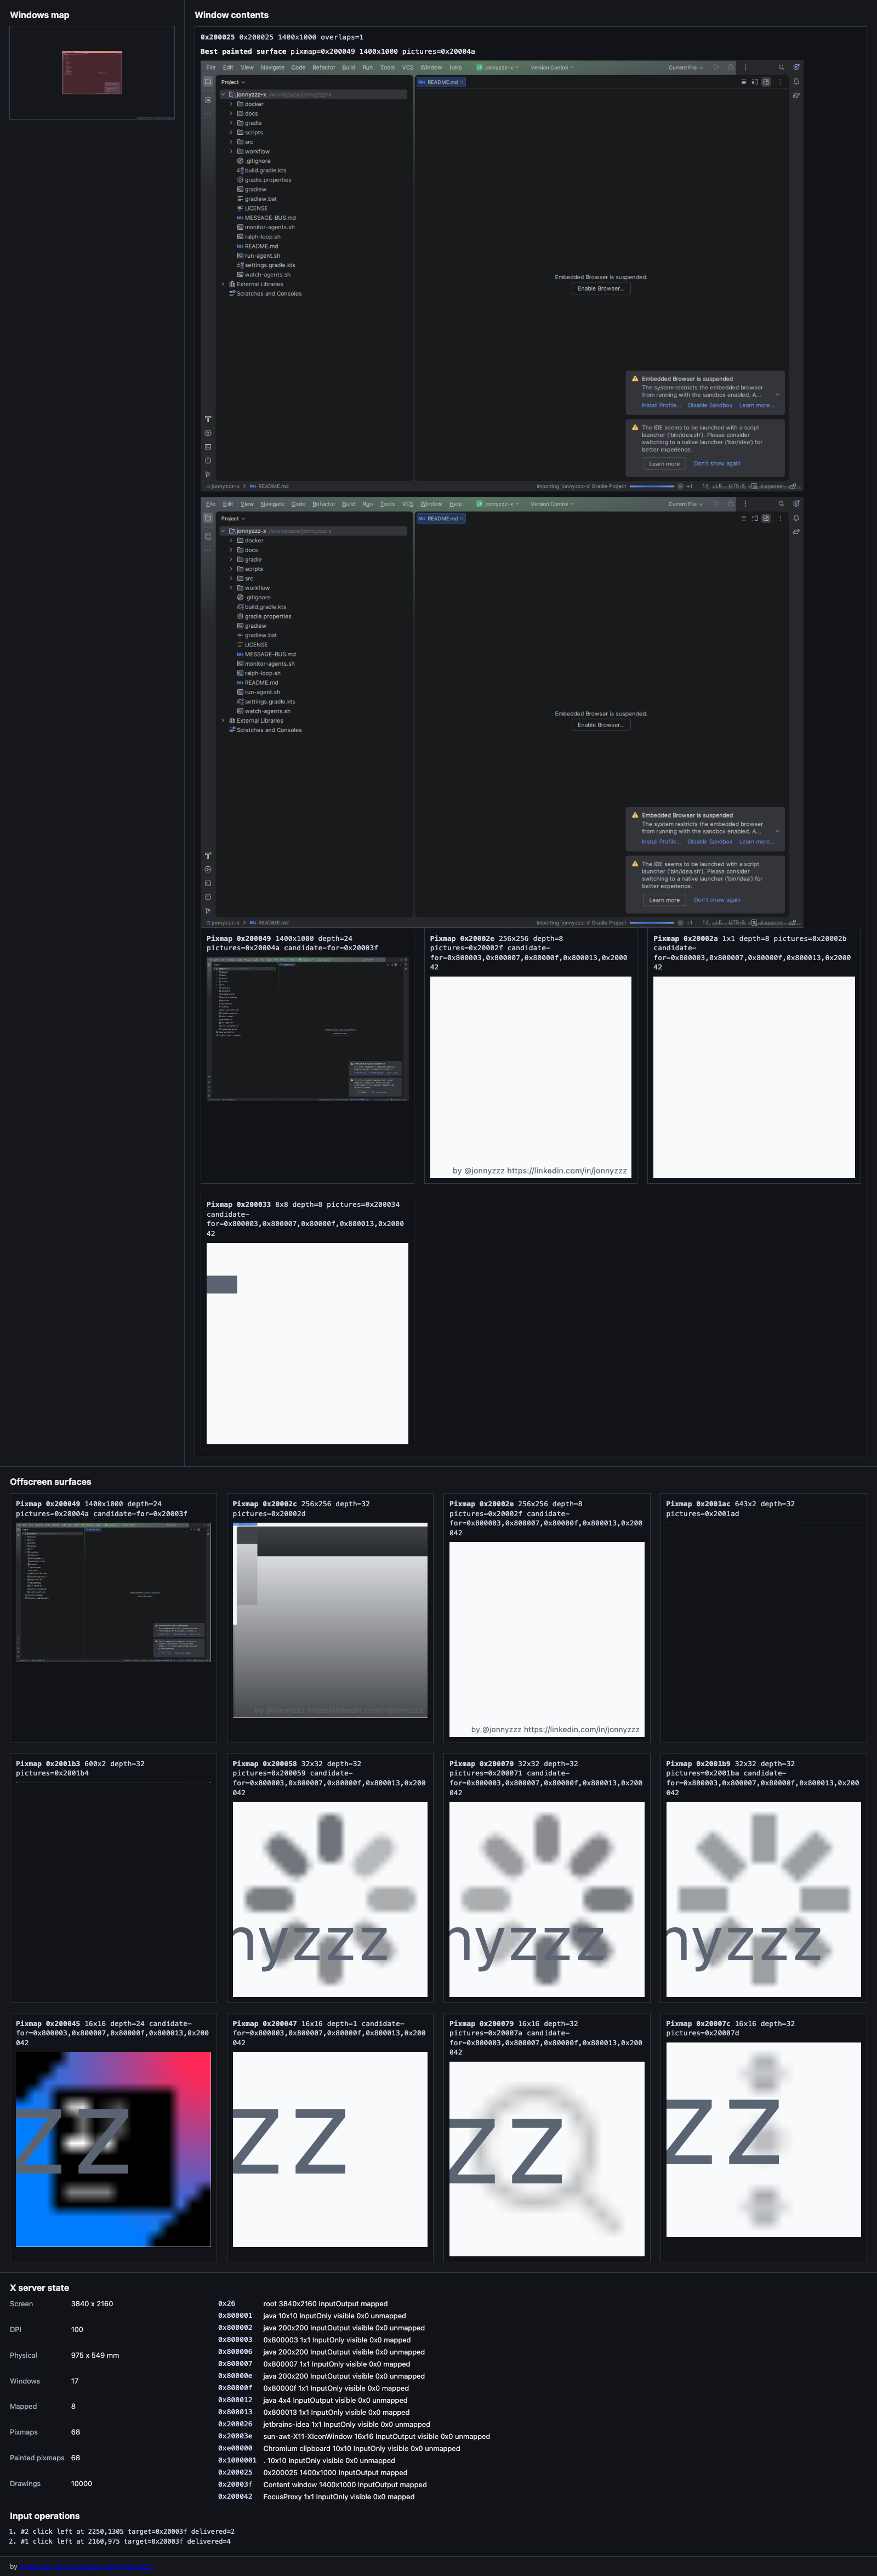
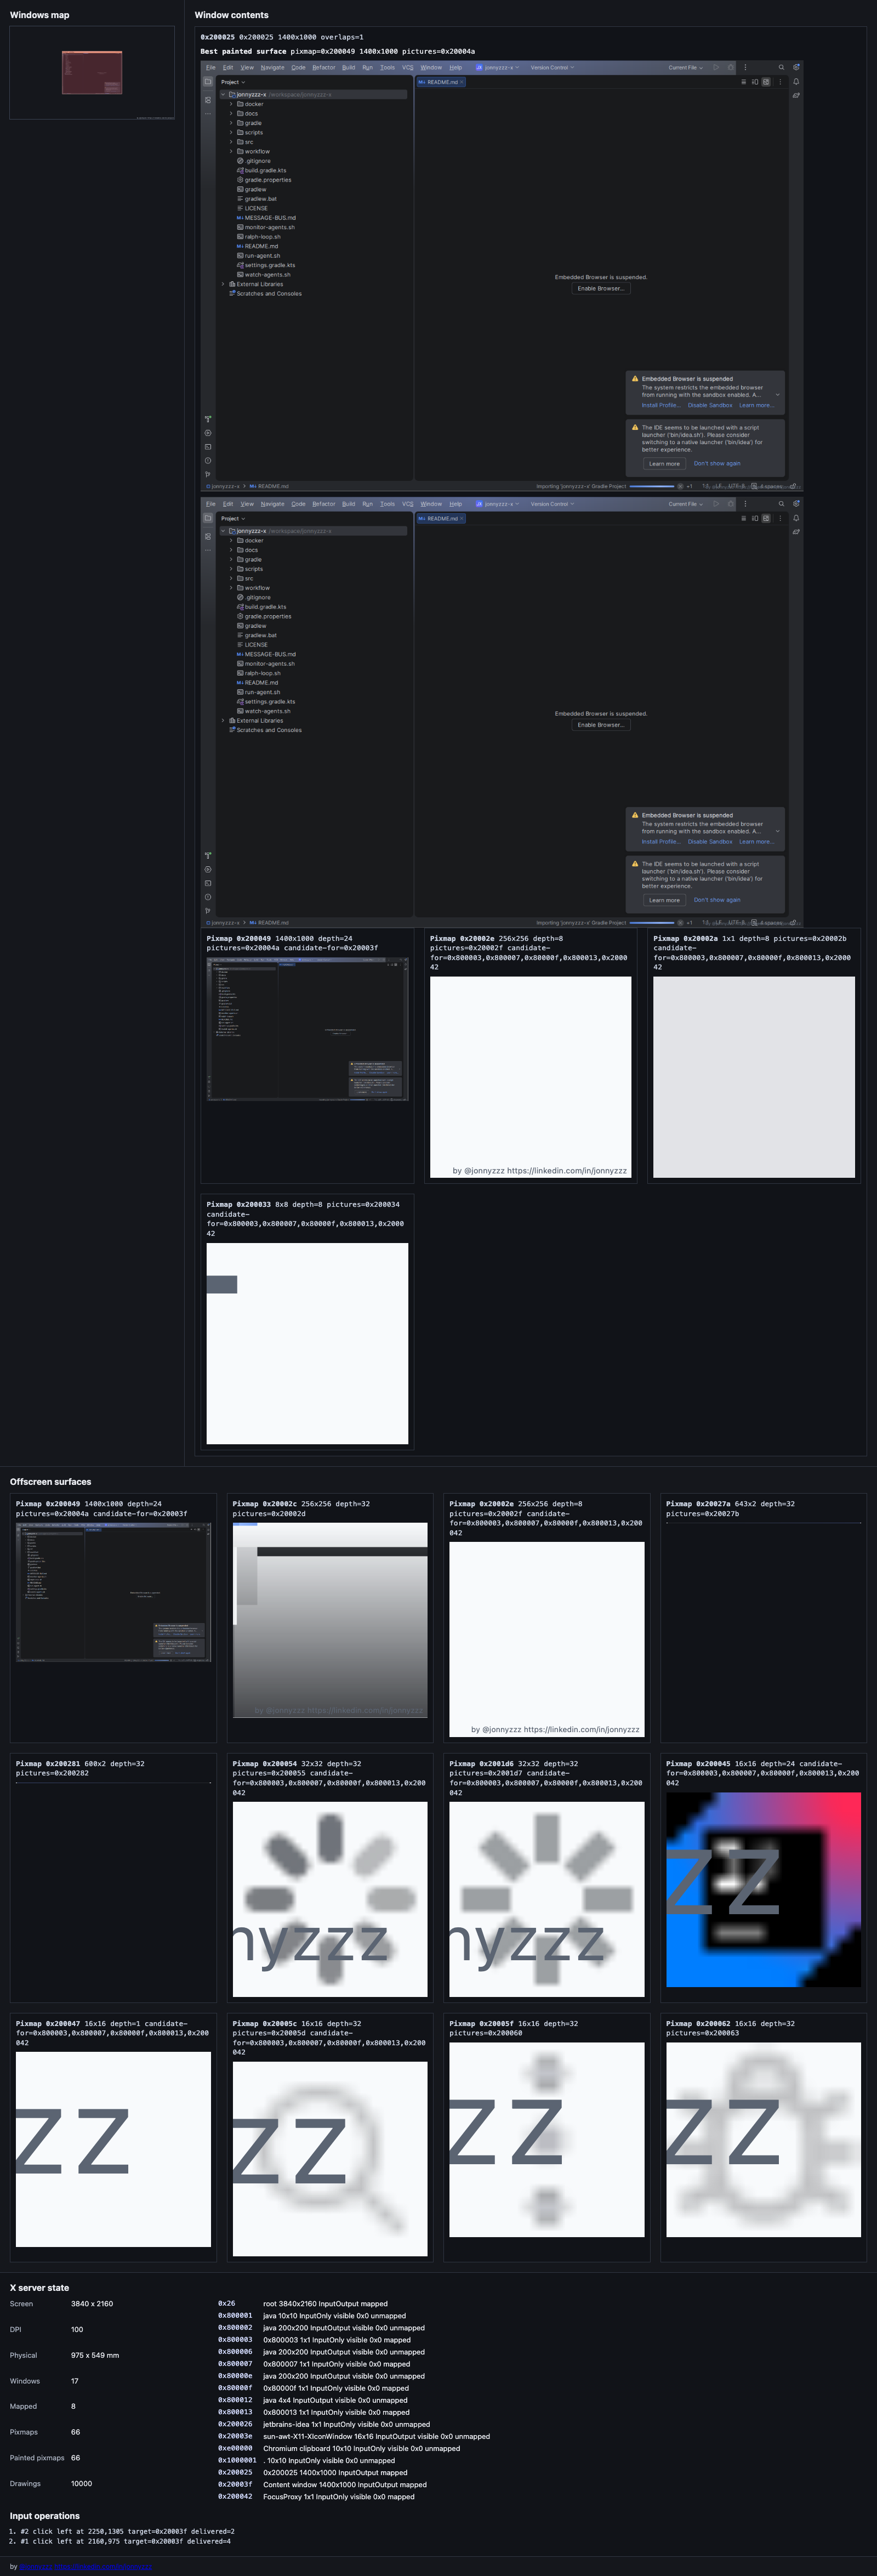
Pin IntelliJ remote X11 rendering mode
Set -Dremote.x11.workaround=false in the IntelliJ launcher so Xvfb and the Kotlin server do not diverge through JBR slow-X11 auto detection.

Refresh the README IntelliJ renderer screenshot after the launcher change.

Verification: sh -n docker/x11-client/run-intellij.sh; git diff --check; dockerBuildX11Client; opt-in IntelliJ smoke; opt-in IntelliJ parity; full default scripts/run-gradle-bounded.sh test --console=plain; bounded screenshot refresh; 3x source-only review quorum.

diff --git a/src/test/kotlin/org/jonnyzzz/xserver/IntellijCommunitySmokeTest.kt b/src/test/kotlin/org/jonnyzzz/xserver/IntellijCommunitySmokeTest.kt
@@ -368,6 +368,7 @@ class IntellijCommunitySmokeTest {
                         check grep -q 'experimental.ui.on.first.startup' /tmp/idea-config/options/other.xml
                         check sh -lc 'find /root/.java/.userPrefs/jetbrains -name prefs.xml -exec grep -l "euacommunity_accepted_version" {} + | grep -q .'
                         check grep -q -- "-Didea.trust.all.projects=true" /tmp/idea-extra.vmoptions
+                        check grep -q -- "-Dremote.x11.workaround=false" /tmp/idea-extra.vmoptions
                         check test -d /tmp/idea-config/plugins
                         check grep -q 'idea.plugins.path=/tmp/idea-config/plugins' /tmp/idea.properties
                         check grep -q "componentStore=/workspace/jonnyzzz-x" /tmp/idea-log/idea.log

diff --git a/MESSAGE-BUS.md b/MESSAGE-BUS.md
@@ -843,3 +843,5 @@
 - FACT 2026-07-04 10:46 CEST (Root): Continued the diagnostics-only IntelliJ visual-region harness slice. `IntellijCommunitySmokeTest.intellijVisualRegionMetrics(...)` now reports `robotMismatchBounds`, `svgMismatchBounds`, `robotInsideFrameMismatchBounds`, and `svgInsideFrameMismatchBounds`, matching the VSCode visual-region artifact shape so current IntelliJ drift can be localized without rerunning heavyweight parity immediately. Focused verification passed with `GRADLE_TIMEOUT_SECONDS=900 GRADLE_NO_OUTPUT_DIAGNOSTICS_SECONDS=180 GRADLE_NO_OUTPUT_TIMEOUT_SECONDS=600 scripts/run-gradle-bounded.sh test --tests 'org.jonnyzzz.xserver.IntellijCommunitySmokeTest.intellij visual region metrics identify frame and margins' --console=plain`. README and `workflow/test-matrix.md` document the new full-screen and inside-frame mismatch bounds. No X server protocol behavior changed; parked extensions remain parked.
 - REVIEW 2026-07-04 10:50 CEST (Review quorum): PASS/NO BLOCKERS for the wrapper-first/latest diagnostics and IntelliJ mismatch-bounds slice from bounded source-only review agents Codex `run_20260704-084730-33124`, Gemini `run_20260704-084730-33128`, and Claude `run_20260704-084730-33134`. Reviews used no Gradle, Docker, Maven, IDE builds, browser automation, MCP Steroid, edits, or nested agents. Codex and Gemini confirmed the symlink pattern is non-destructive and the fixture math is correct; Claude noted two non-blocking points: concurrent `latest` updates are last-writer-wins by design, and `run-agent.sh` did not yet record `LATEST=` in `run-info.txt` like the other wrappers. Root addressed the consistency note by adding `LATEST=$RUNS_DIR/latest` to `run-agent.sh` run-info. No review found protocol behavior changes or extension-scope drift.
 - FACT 2026-07-04 10:55 CEST (Root): Refreshed the README IntelliJ screenshot after the mismatch-bound artifact update. Ran `SKIP_BUILD=1 ALLOW_NPX_PLAYWRIGHT=1 PORT=6102 scripts/run-bounded-experiment.sh -- scripts/update-intellij-readme-screenshot.sh`; the bounded wrapper completed with `EXIT_CODE=0` under `runs/bounded-experiments/run_20260704-085202-40924`, and `docs/images/intellij-demo-renderer.png` is a valid 1600x4698 PNG showing the current HTTP/SVG renderer state. No source or protocol behavior changed.
+- FACT 2026-07-04 10:59 CEST (Root): Found and fixed a real IntelliJ parity drift source. The Kotlin parity run log uniquely printed `[JetBrains Runtime] Detected slow X11, switched off alpha compositing of images. Control with -Dremote.x11.workaround={true|false|auto}.`, while the Xvfb reference did not. `docker/x11-client/run-intellij.sh` now defaults `IDEA_REMOTE_X11_WORKAROUND=false` and appends `-Dremote.x11.workaround=false` to `/tmp/idea-extra.vmoptions`, with the env var still overrideable. The opt-in IntelliJ smoke asserts the VM option is present. Rebuilt `jonnyzzz-x/x11-client:latest`, then reran opt-in IntelliJ smoke and parity. The slow-X11 workaround log disappeared, SVG-vs-Xvfb sampled distance improved from about `5.55` to `4.20`, and the obvious purple Kotlin header shifted to the same brown/orange family as Xvfb. No X protocol or extension behavior changed.
+- REVIEW 2026-07-04 11:04 CEST (Review quorum): PASS/NO BLOCKERS for the IntelliJ JBR remote-X11 workaround pin and refreshed README screenshot from bounded source-only review agents Codex `run_20260704-090238-57509`, Gemini `run_20260704-090238-57524`, and Claude `run_20260704-090239-58221`. Reviewers confirmed `IDEA_REMOTE_X11_WORKAROUND=false` is safe and overrideable (`true`/`auto` restore alternate behavior), the smoke assertion checks the generated VM options in the right place, the PNG is a valid 1600x4698 artifact, and no `src/main` protocol code or parked extension changed. Claude noted non-blocking cleanup possibilities around the always-appended VM option; root kept the explicit default because the parity harness should always pin the JBR heuristic unless overridden.